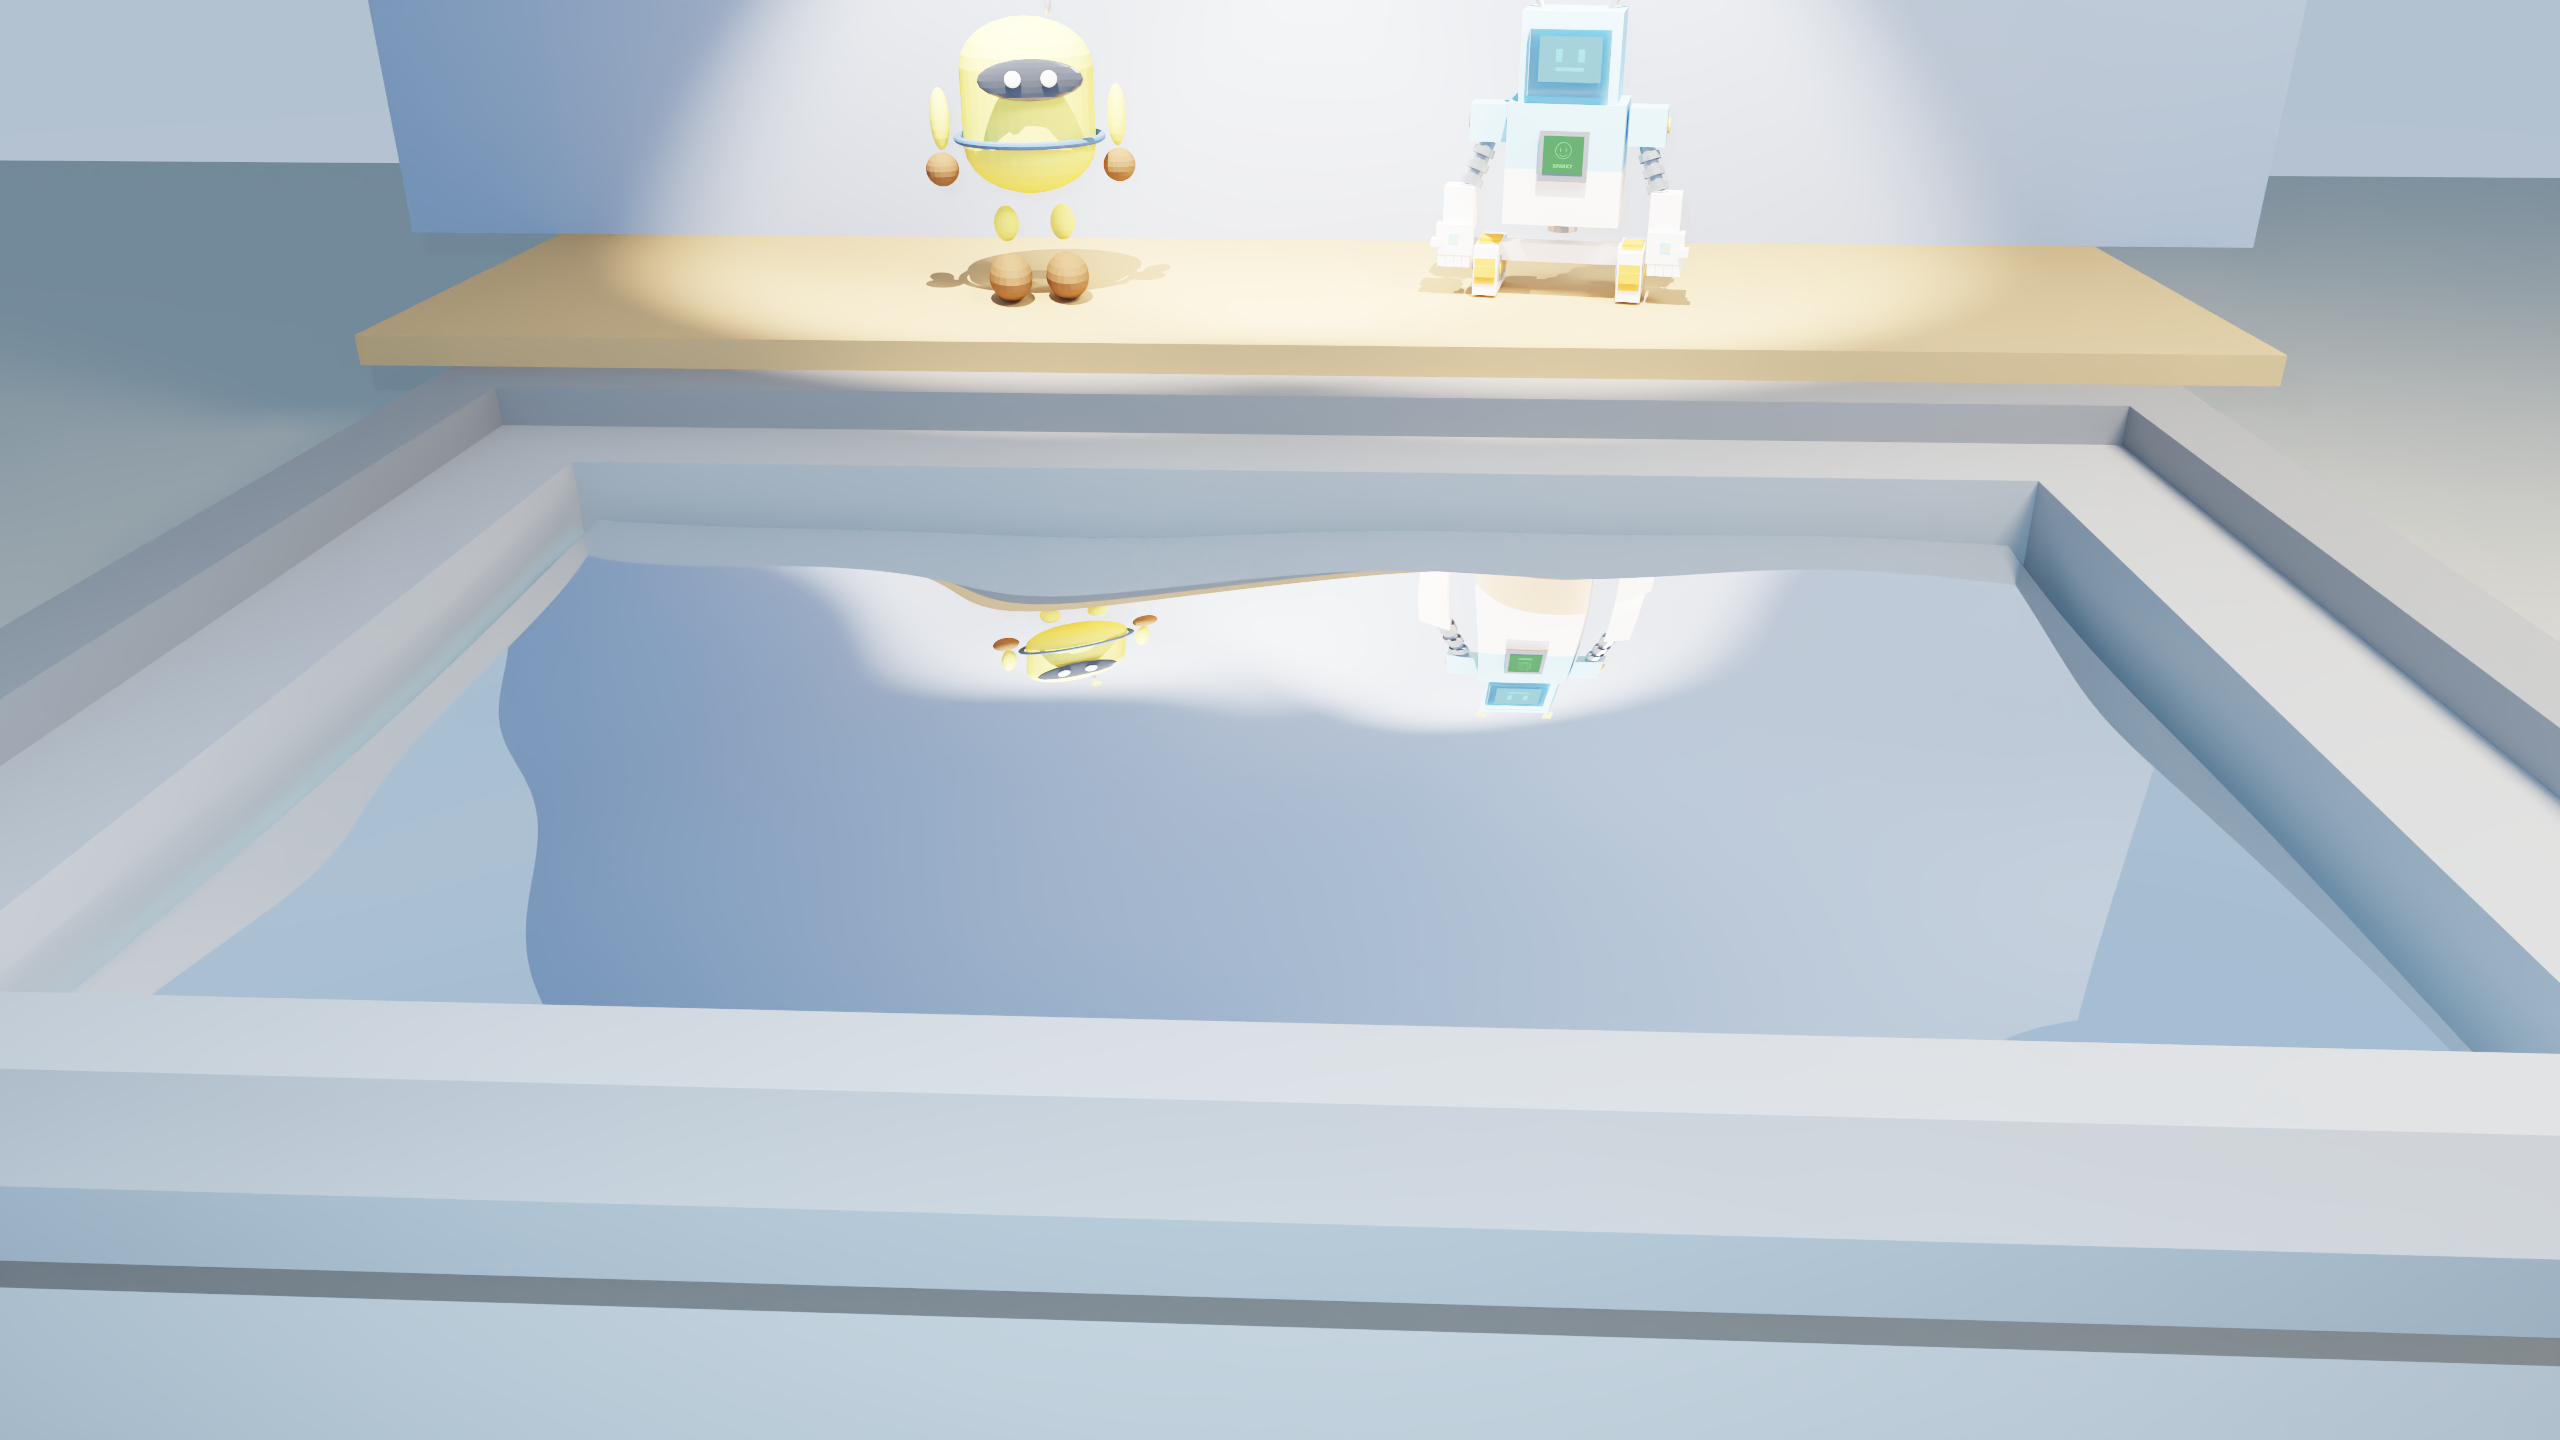
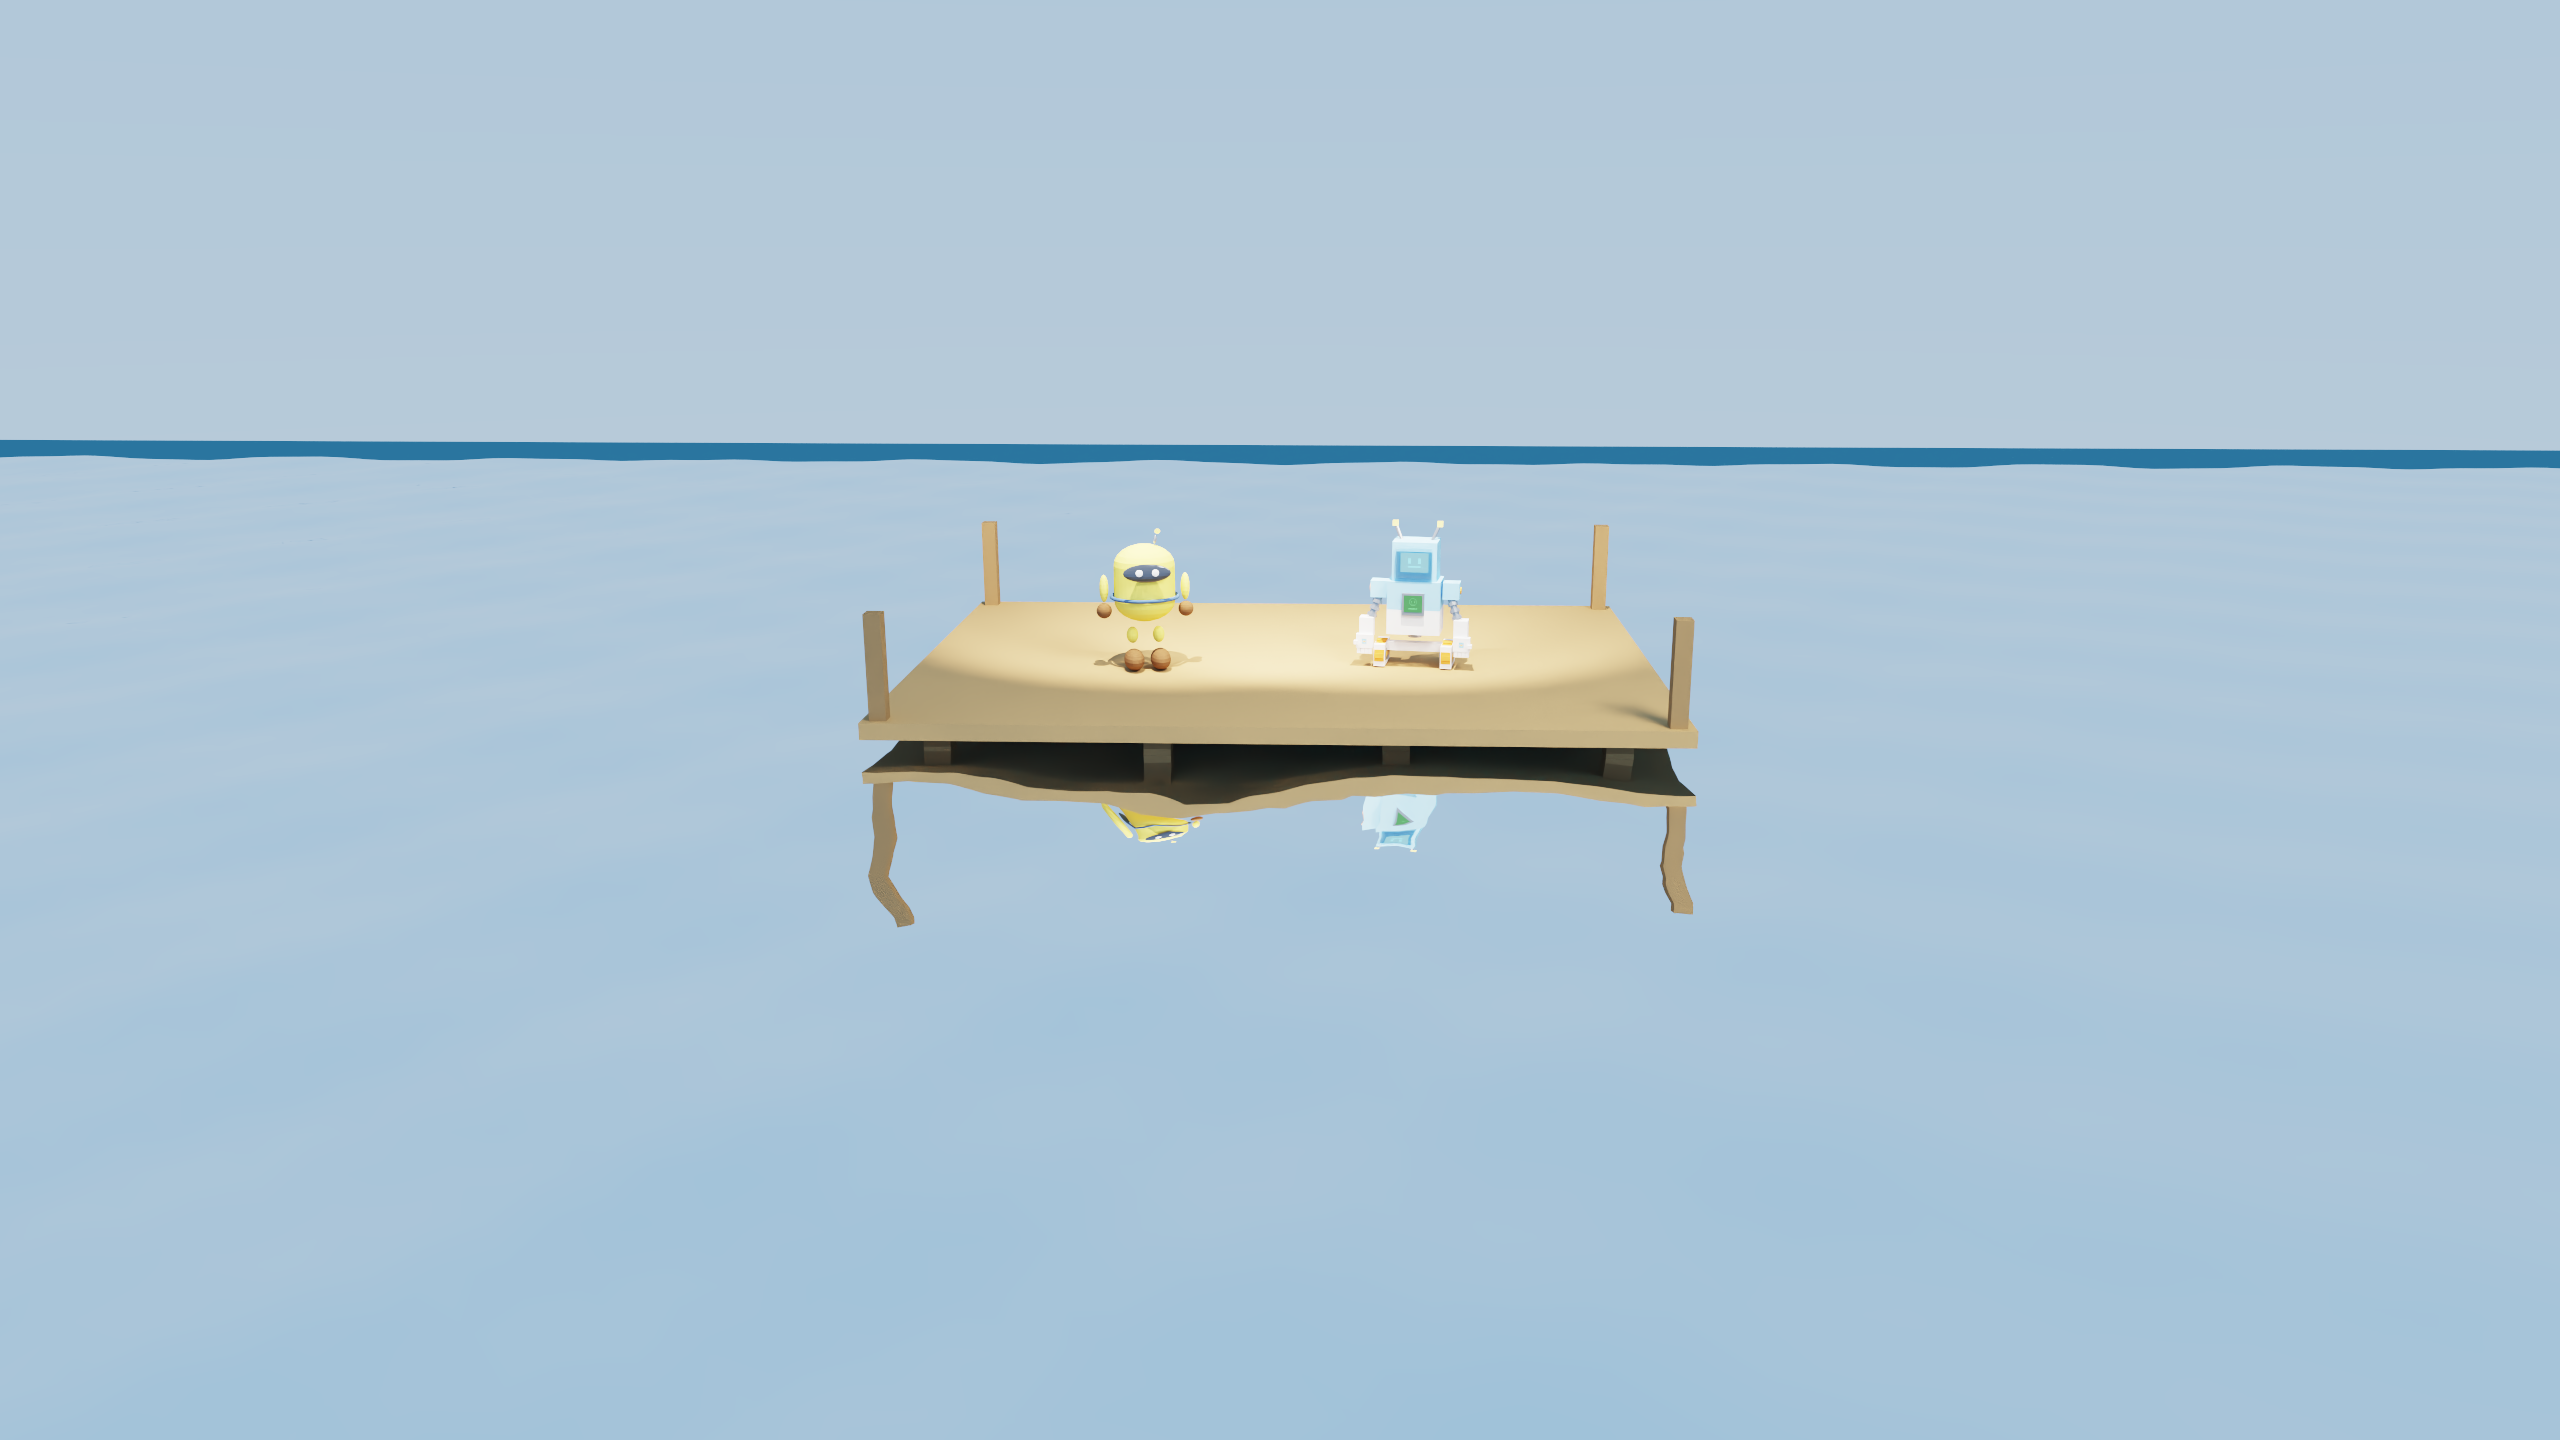
Replace the shallow pool with open deep water and a pier.
Give the water demo real depth and scale so Beer-Lambert color reads clearly, while keeping Sparky and Capsule Mascot as pier reflections.

diff --git a/python/scenes/water_pool.py b/python/scenes/water_pool.py
@@ -1,5 +1,5 @@
 #!/usr/bin/env python3
-"""Enclosed stone pool with calm procedural water; Sparky + Capsule Mascot on the far deck."""
+"""Open deep water with a wooden pier; Sparky + Capsule Mascot as reflection subjects."""
 from __future__ import print_function
 
 import os
@@ -36,23 +36,22 @@ def main():
 
     scene = lc.Scene()
 
-    stone = scene.add_material(lc.Material(base_color=(0.38, 0.36, 0.34), roughness=0.85))
-    stone_dark = scene.add_material(lc.Material(base_color=(0.24, 0.23, 0.22), roughness=0.88))
-    wood = scene.add_material(lc.Material(base_color=(0.50, 0.32, 0.16), roughness=0.7))
-    tile = scene.add_material(lc.Material(base_color=(0.18, 0.38, 0.42), roughness=0.45))
-    sand = scene.add_material(lc.Material(base_color=(0.50, 0.46, 0.38), roughness=0.95))
-    plaster = scene.add_material(lc.Material(base_color=(0.28, 0.34, 0.45), roughness=0.92))
-    # Moderate Beer-Lambert so depth reads without killing the floor.
+    wood = scene.add_material(lc.Material(base_color=(0.48, 0.30, 0.14), roughness=0.72))
+    wood_dark = scene.add_material(lc.Material(base_color=(0.32, 0.20, 0.10), roughness=0.8))
+    seabed = scene.add_material(lc.Material(base_color=(0.12, 0.32, 0.36), roughness=0.92))
+    rock = scene.add_material(lc.Material(base_color=(0.35, 0.34, 0.32), roughness=0.88))
+    # Deep water: stronger Beer-Lambert so ~4 m depth reads cyan/teal.
     water = scene.add_material(
         lc.Material(
-            base_color=(0.65, 0.85, 0.92),
+            base_color=(0.50, 0.80, 0.90),
             roughness=0.0,
             transmission=1.0,
             ior=1.33,
-            absorption=(0.40, 0.14, 0.07),
+            absorption=(0.45, 0.14, 0.06),
         )
     )
-    accent = scene.add_material(lc.Material(base_color=(0.90, 0.28, 0.16), roughness=0.35))
+    accent = scene.add_material(lc.Material(base_color=(0.95, 0.35, 0.12), roughness=0.35))
+    accent_b = scene.add_material(lc.Material(base_color=(0.15, 0.55, 0.85), roughness=0.4))
 
     albedo_path = resolve_asset("assets/models/sparky_albedo.png")
     tex = scene.add_texture(albedo_path)
@@ -147,43 +146,51 @@ def main():
         "mascot_antenna_tip": ant_tip,
     }
 
-    scene.add_mesh(lc.make_quad((-10, 0, -10), (20, 0, 0), (0, 0, 20), sand))
+    # Deep seabed (~3.5 m below water surface at y=0)
+    scene.add_mesh(lc.make_quad((-50, -3.5, -50), (100, 0, 0), (0, 0, 100), seabed))
 
-    # Enclosed four-wall pool. Inner basin ≈ [-1.75,1.75] x [-1.15,1.15].
-    scene.add_mesh(lc.make_box((-2.05, 0.0, -1.45), (2.05, 0.06, 1.45), tile))
-    scene.add_mesh(lc.make_box((-2.05, 0.06, -1.45), (2.05, 0.68, -1.15), stone))  # -Z
-    scene.add_mesh(lc.make_box((-2.05, 0.06, 1.15), (2.05, 0.68, 1.45), stone))  # +Z
-    scene.add_mesh(lc.make_box((-2.05, 0.06, -1.15), (-1.75, 0.68, 1.15), stone))  # -X
-    scene.add_mesh(lc.make_box((1.75, 0.06, -1.15), (2.05, 0.68, 1.15), stone))  # +X
-    # Coping rim flush with walls
-    scene.add_mesh(lc.make_box((-2.25, 0.68, -1.65), (2.25, 0.78, -1.45), stone_dark))
-    scene.add_mesh(lc.make_box((-2.25, 0.68, 1.45), (2.25, 0.78, 1.65), stone_dark))
-    scene.add_mesh(lc.make_box((-2.25, 0.68, -1.45), (-2.05, 0.78, 1.45), stone_dark))
-    scene.add_mesh(lc.make_box((2.05, 0.68, -1.45), (2.25, 0.78, 1.45), stone_dark))
-    # Far deck
-    scene.add_mesh(lc.make_box((-2.5, 0.78, -3.1), (2.5, 0.86, -1.65), wood))
-    scene.add_mesh(lc.make_quad((-3.0, 0.86, -3.05), (6.0, 0, 0), (0, 2.8, 0), plaster))
-
-    # Water slightly inset from inner walls so ripples never clip the stone.
+    # Open water covering the view
     water_mesh = lc.make_water_surface(
-        center=(0.0, 0.0, 0.0),
-        half_extents_xz=(1.68, 0.0, 1.08),
-        y_base=0.55,
+        center=(0.0, 0.0, 4.0),
+        half_extents_xz=(20.0, 0.0, 20.0),
+        y_base=0.0,
         material_id=water,
-        nx=160,
-        nz=120,
+        nx=180,
+        nz=140,
         time=time,
     )
     scene.add_mesh(water_mesh)
-    print("Procedural water surface time={}".format(time))
+    print("Open deep water surface time={}".format(time))
 
-    char_scale = 0.42
-    deck_y = 0.86
+    # Wooden pier along -Z (deck top slightly above water)
+    pier_y0 = 0.12
+    pier_y1 = 0.22
+    scene.add_mesh(lc.make_box((-2.4, pier_y0, -5.2), (2.4, pier_y1, -1.6), wood))
+    # Support piles into the deep water
+    for x in (-2.0, -0.7, 0.7, 2.0):
+        for z in (-4.8, -3.2, -1.9):
+            scene.add_mesh(lc.make_box((x - 0.08, -3.5, z - 0.08), (x + 0.08, pier_y0, z + 0.08), wood_dark))
+    # Simple railing posts
+    scene.add_mesh(lc.make_box((-2.35, pier_y1, -5.15), (-2.25, 0.85, -5.05), wood_dark))
+    scene.add_mesh(lc.make_box((2.25, pier_y1, -5.15), (2.35, 0.85, -5.05), wood_dark))
+    scene.add_mesh(lc.make_box((-2.35, pier_y1, -1.75), (-2.25, 0.85, -1.65), wood_dark))
+    scene.add_mesh(lc.make_box((2.25, pier_y1, -1.75), (2.35, 0.85, -1.65), wood_dark))
+
+    # Submerged rocks closer to the surface in the near field for depth cues
+    scene.add_mesh(lc.make_uv_sphere((-1.4, -1.6, 2.5), 0.70, rock))
+    scene.add_mesh(lc.make_uv_sphere((1.8, -1.1, 3.2), 0.48, rock))
+    scene.add_mesh(lc.make_uv_sphere((0.4, -2.2, 1.8), 0.55, accent_b))
+    scene.add_mesh(lc.make_uv_sphere((-0.6, -0.7, 1.2), 0.28, accent))
+
+    scene.background_top = (0.20, 0.38, 0.65)
+    scene.background_bottom = (0.45, 0.55, 0.68)
+    char_scale = 0.45
+    deck_y = pier_y1
 
     sparky_path = resolve_asset("assets/models/sparky.obj")
     sparky = lc.load_obj(sparky_path, sparky_mtl, plastic_white)
     sparky = lc.transform_mesh(
-        sparky, (0.72, deck_y, -2.30), (char_scale,) * 3, (0.0, -0.18, 0.0)
+        sparky, (0.85, deck_y, -3.2), (char_scale,) * 3, (0.0, -0.15, 0.0)
     )
     scene.add_mesh(sparky)
     print("Loaded {}".format(sparky_path))
@@ -191,59 +198,53 @@ def main():
     mascot_path = resolve_asset("assets/models/capsule_mascot.obj")
     mascot = lc.load_obj(mascot_path, mascot_mtl, yellow)
     mascot = lc.transform_mesh(
-        mascot, (-0.78, deck_y, -2.25), (char_scale,) * 3, (0.0, 0.22, 0.0)
+        mascot, (-0.90, deck_y, -3.1), (char_scale,) * 3, (0.0, 0.20, 0.0)
     )
     scene.add_mesh(mascot)
     print("Loaded {}".format(mascot_path))
 
-    # Submerged accent for refraction read
-    scene.add_mesh(lc.make_uv_sphere((0.2, 0.22, 0.15), 0.16, accent))
-
-    # Soft area sun — restrained so specular does not blow out
-    light_corner = (2.4, 5.0, -0.6)
-    light_u = (2.0, 0.0, 0.35)
-    light_v = (-0.25, 0.0, 2.0)
+    # Soft sun over open water
+    light_corner = (4.0, 8.0, 2.0)
+    light_u = (3.5, 0.0, 0.5)
+    light_v = (-0.4, 0.0, 3.5)
     light_mat = scene.add_material(
-        lc.Material(base_color=(0, 0, 0), roughness=1.0, emission=(16, 15, 13))
+        lc.Material(base_color=(0, 0, 0), roughness=1.0, emission=(18, 17, 14))
     )
     scene.add_mesh(lc.make_quad(light_corner, light_u, light_v, light_mat))
-    scene.add_quad_light(light_corner, light_u, light_v, (16, 15, 13))
+    scene.add_quad_light(light_corner, light_u, light_v, (18, 17, 14))
 
-    warm = (55.0, 48.0, 40.0)
+    warm = (60.0, 52.0, 42.0)
     scene.add_spot_light(
-        position=(-0.78, 2.9, -1.5),
-        direction=(0.05, -0.8, -0.5),
+        position=(-0.90, 3.2, -2.4),
+        direction=(0.05, -0.75, -0.55),
         emission=warm,
-        angle_deg=24.0,
+        angle_deg=26.0,
         penumbra_deg=12.0,
     )
     scene.add_spot_light(
-        position=(0.72, 2.9, -1.5),
-        direction=(-0.05, -0.8, -0.5),
+        position=(0.85, 3.2, -2.4),
+        direction=(-0.05, -0.75, -0.55),
         emission=warm,
-        angle_deg=24.0,
+        angle_deg=26.0,
         penumbra_deg=12.0,
     )
-    # Soft skim across water toward the camera for Fresnel
+    # Cool skim across the open water toward camera
     scene.add_spot_light(
-        position=(0.0, 2.2, 3.0),
-        direction=(0.0, -0.4, -0.9),
-        emission=(18, 28, 42),
-        angle_deg=48.0,
-        penumbra_deg=16.0,
+        position=(0.0, 3.5, 6.0),
+        direction=(0.0, -0.45, -0.85),
+        emission=(22, 34, 48),
+        angle_deg=55.0,
+        penumbra_deg=18.0,
     )
 
-    scene.background_top = (0.22, 0.36, 0.58)
-    scene.background_bottom = (0.40, 0.45, 0.52)
-
-    # High enough to read refraction near the camera; far water still mirrors the deck.
+    # Slightly elevated view: open water fills the frame, pier reflections read clearly.
     camera = lc.Camera(
-        eye=(0.15, 2.05, 3.15),
-        lookat=(0.0, 0.40, -0.35),
-        fov_y_deg=42,
+        eye=(0.4, 2.9, 8.2),
+        lookat=(0.0, 0.05, -2.4),
+        fov_y_deg=44,
         aspect=16 / 9,
         aperture=0.0,
-        focus_dist=4.0,
+        focus_dist=9.5,
     )
     cfg = lc.RenderConfig(width=2560, height=1440, spp=spp, denoise=denoise, output_path=out)
     lc.Renderer().render(scene, camera, cfg)

diff --git a/CHANGELOG.md b/CHANGELOG.md
@@ -5,6 +5,13 @@ All notable changes to LumenCore are documented in this file.
 The format is based on [Keep a Changelog](https://keepachangelog.com/en/1.1.0/),
 and this project uses [Semantic Versioning](https://semver.org/spec/v2.0.0.html).
 
+## [0.9.1] - 2026-07-16
+
+### Changed
+
+- Water pool demo is now **open deep water** (~4 m) with a wooden pier; Sparky + Capsule Mascot remain as reflection subjects
+- Stronger Beer-Lambert absorption and a deep seabed (~3.5 m) so water color / depth read clearly
+
 ## [0.9.0] - 2026-07-16
 
 ### Added
@@ -131,6 +138,7 @@ and this project uses [Semantic Versioning](https://semver.org/spec/v2.0.0.html)
 - Example scenes: `cornell`, `materials_ball`, `outdoor_env`
 - Docker-based build/run helper for RTX GPUs
 
+[0.9.1]: https://github.com/goooxu/LumenCore/compare/v0.9.0...v0.9.1
 [0.9.0]: https://github.com/goooxu/LumenCore/compare/v0.8.2...v0.9.0
 [0.8.2]: https://github.com/goooxu/LumenCore/compare/v0.8.1...v0.8.2
 [0.8.1]: https://github.com/goooxu/LumenCore/compare/v0.8.0...v0.8.1

diff --git a/README.md b/README.md
@@ -46,7 +46,7 @@ Studio duo: **Sparky** beside **Capsule Mascot**, lit by two overhead **spotligh
 
 ![Water Pool](outputs/water_pool.png)
 
-Enclosed stone pool with a **calm procedural water surface** (`make_water_surface` heightfield + analytic normals, IOR 1.33 + Beer-Lambert absorption). **Sparky** and **Capsule Mascot** stand on the far deck as reflection subjects; a submerged accent shows refraction through the water.
+Open deep water with a **calm procedural surface** (`make_water_surface` + analytic normals, IOR 1.33 + Beer-Lambert absorption over ~4 m depth). **Sparky** and **Capsule Mascot** stand on a wooden pier; submerged rocks cue depth and refraction.
 
 ---
 
@@ -148,7 +148,7 @@ lc.Renderer().render(scene, cam, cfg)
 | sparky | 2560×1440 | Sparky + Capsule Mascot duo |
 | physx_collapse | 2560×1440 | ~0.24 s path-trace / frame @ 96 spp; PhysX backend `gpu` |
 | fireplace | 2560×1440 | ~1.50 s @ 256 spp (volume march + NEE) |
-| water_pool | 2560×1440 | wavy water + Beer-Lambert absorption |
+| water_pool | 2560×1440 | open deep water + pier; Beer-Lambert depth |
 
 ## License
 